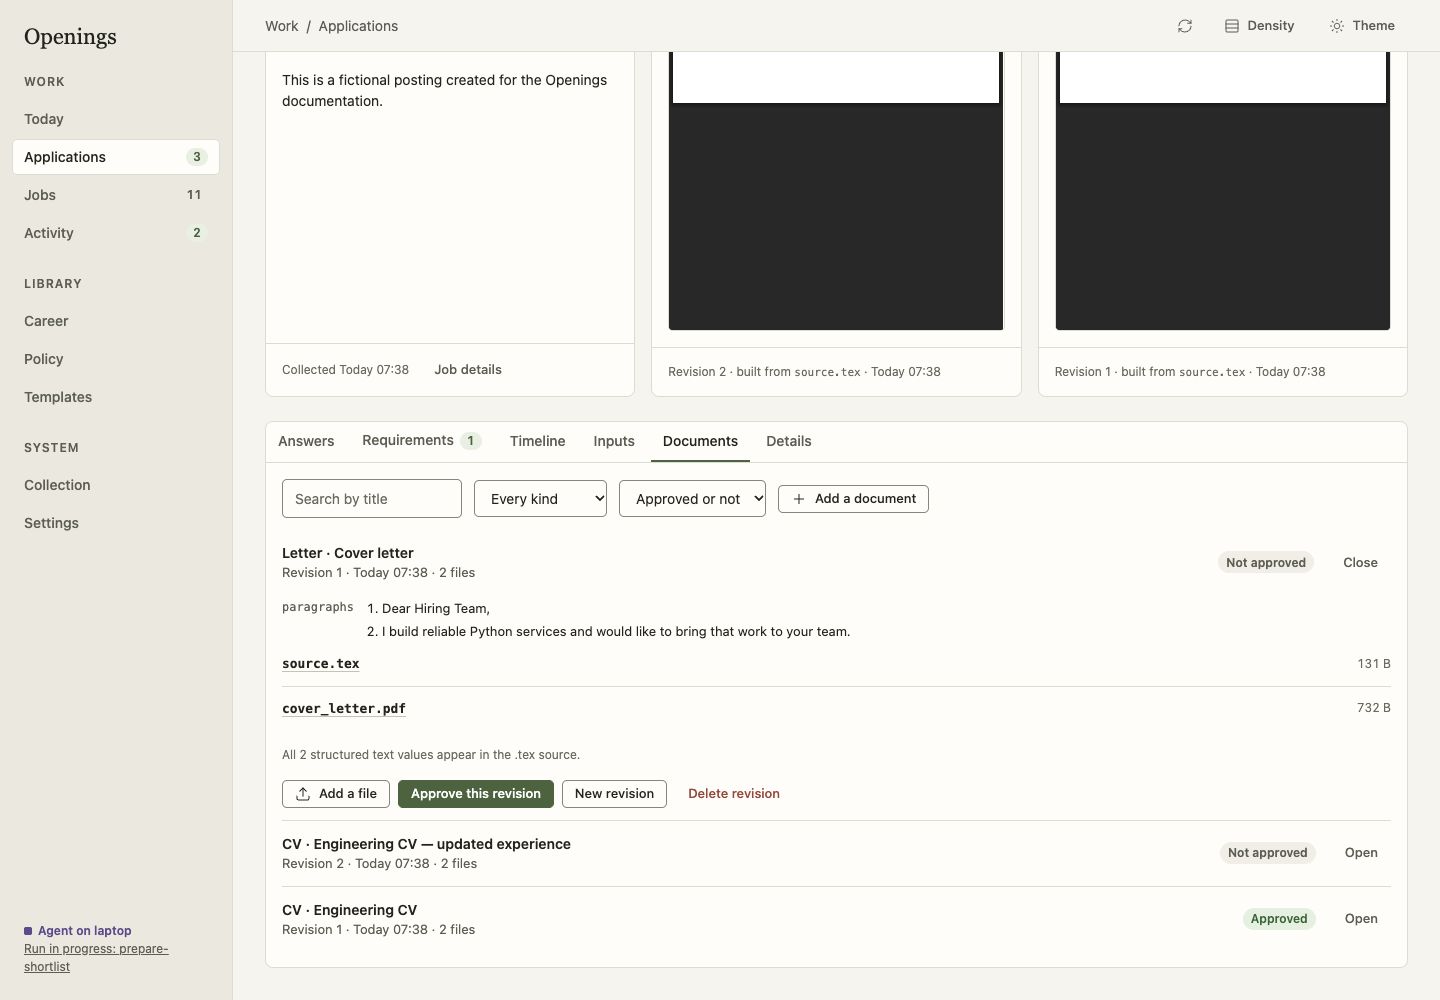
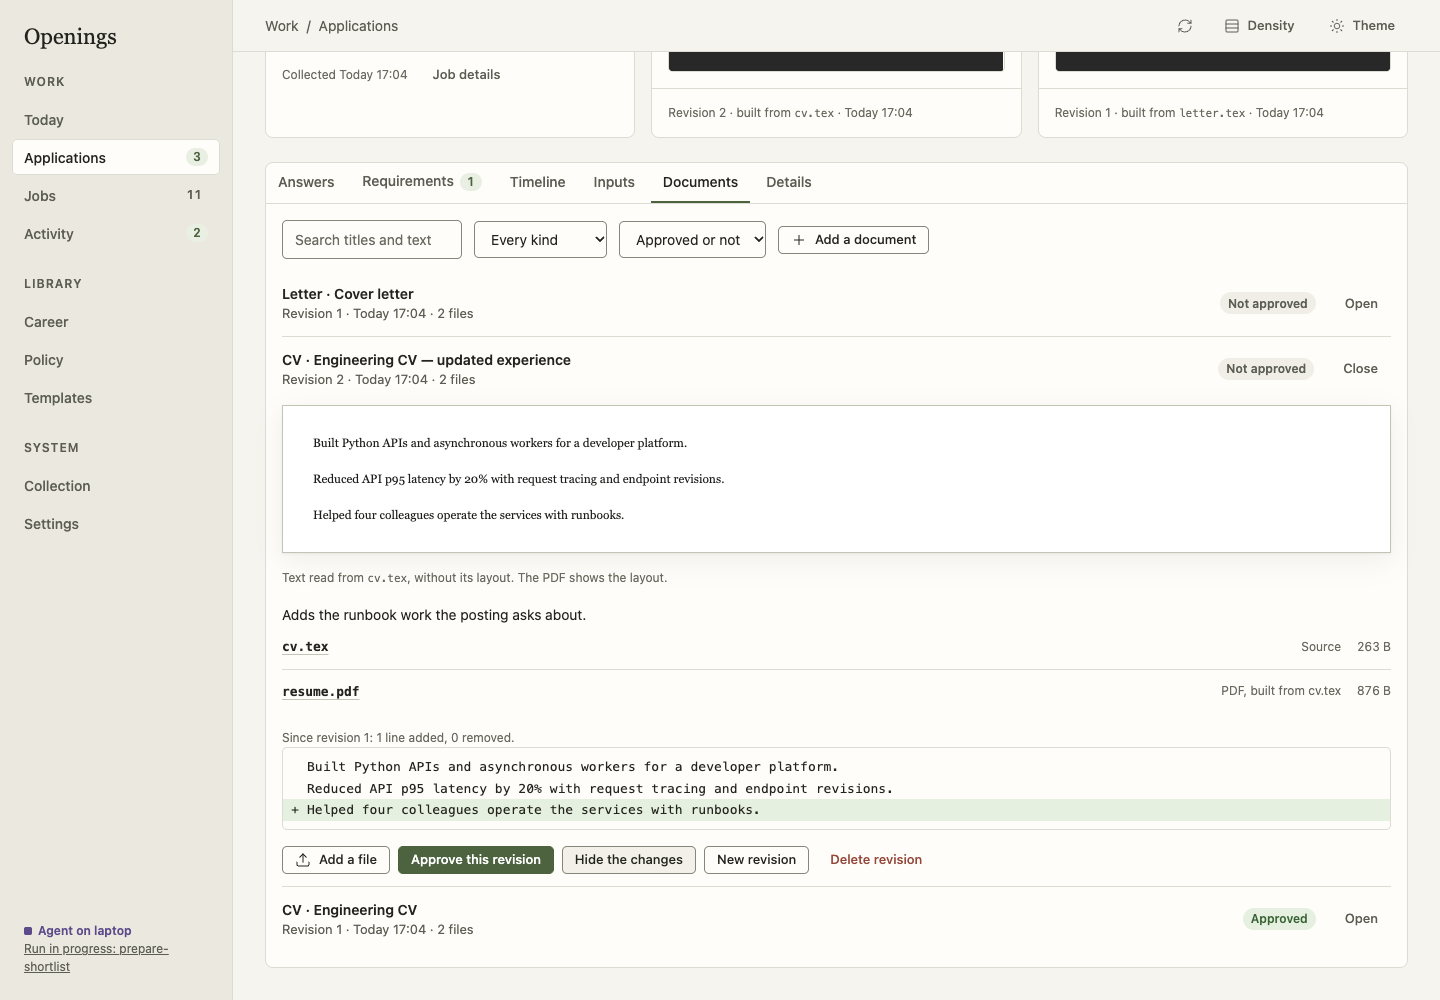
Compare non-empty lines and regenerate parity and screenshots
Blank lines only separate paragraphs of the derived text, so the comparison
skips them. The parity matrix records the dashboard's comparison calls, and
the review and documents screenshots show the PDF and text switch and the
changes since the previous revision.

diff --git a/backend/openings/documents/revisions.py b/backend/openings/documents/revisions.py
@@ -29,7 +29,8 @@ SUMMARY_COLUMNS = (
 def readable_lines(row) -> list[str]:
     """The lines a comparison reads: the derived text, else structured content as text."""
     if row.get("text") is not None:
-        return row["text"].splitlines()
+        # Blank lines only separate paragraphs; they are not compared.
+        return [line for line in row["text"].splitlines() if line.strip()]
     if row["kind"] in SOURCE_KINDS:
         return []
     lines = []

diff --git a/docs/developer/parity.md b/docs/developer/parity.md
@@ -32,7 +32,7 @@ How to read the evidence:
 | Owner only (refused for an agent token) | 9 |
 | Without a working dashboard path | 7 |
 | Reached only through another operation | 7 |
-| With inputs the dashboard never mentions | 22 |
+| With inputs the dashboard never mentions | 23 |
 | With free-form JSON edited as raw JSON | 0 |
 | With different REST and MCP input names | 1 |
 | With a dashboard path exercised by e2e | 111 |
@@ -91,6 +91,7 @@ operation. They can be set over REST or MCP only.
 | `insights.read` | `applied_until` | Insights uses the default minimum sample of 5 and `applied_since` for the last 90 days; `min_sample` and `applied_until` serve agents and scripts. |
 | `contexts.list` | `q` | Inputs lists the application's frozen copies 20 at a time; `q` serves agents and scripts. |
 | `contexts.create` | `template_id` | The context dialog sends `template_ids`; `template_id` is the single-template form of the same input. |
+| `documents.create` | `claim_ids`, `knowledge_ids` | Add a document and New revision send the title, frozen copy, note, the CV or letter's source and PDF, or form content; the agent cites `claim_ids` and `knowledge_ids`, which an open revision shows as counts. |
 | `files.list` | `q` | A job's Files lists all of its files; `q` serves agents and scripts. |
 | `events.list` | `application_id`, `job_id`, `subject_id`, `subject_type` | The Activity timeline filters changes by who made them (owner, API tokens or one token, system, not recorded), by kind of record (`subject_types`), by period and by run; the job, application and subject filters serve agents and scripts; the job and application timelines read `timeline.read`. |
 | `runs.list` | `started_since`, `started_until`, `token_id` | Activity filters runs by status; Today lists the runs active since the last visit (`active_since`). The workflow, token and start-time filters serve agents and scripts. |
@@ -264,10 +265,10 @@ missing from the inventory.
 | `applications.staleness`<br>Report whether an attempt's current revisions use outdated inputs | `GET /applications/{application_id}/staleness` | `application_staleness` | any | Applications: Inputs changed indicator and the review page Inputs tab | pages/review/Inputs.tsx | structured | 3 |
 | `applications.staleness_list`<br>List attempts whose current revisions use outdated inputs | `GET /staleness` | `applications_staleness` | any | Applications: Inputs changed tag and first change on rows | via `applications.list`, `applications.staleness` | — | — |
 | `documents.list`<br>List/filter paginated revision summaries | `GET /documents` | `documents_list` | any | Applications: documents/history | pages/review/DocumentPanes.tsx<br>pages/review/Revisions.tsx | structured | 13 |
-| `documents.read`<br>Read exact revision content, chain number and files | `GET /documents/{document_id}` | `documents_get` | any | Applications: revision detail and preview | pages/review/DocumentPanes.tsx<br>pages/review/Revisions.tsx | structured | 7 |
-| `documents.create`<br>Save content as a new immutable revision | `POST /documents` | `documents_create` | any | Applications: add/edit content as a new revision | pages/review/RevisionDialog.tsx | structured | 1 |
-| `documents.review`<br>Approve the exact revision content/files | `POST /documents/{document_id}/review` | `documents_review` | any | Applications: Approve revision | pages/review/Revisions.tsx | structured | 1 |
-| `documents.consistency`<br>Compare structured content text with the attached .tex source | `GET /documents/{document_id}/consistency` | `documents_consistency` | any | Applications: approval reports content/source differences | pages/review/Revisions.tsx | structured | 2 |
+| `documents.read`<br>Read a revision: derived text or form content, evidence, chain number and files | `GET /documents/{document_id}` | `documents_get` | any | Applications: revision detail and preview | pages/review/DocumentPanes.tsx<br>pages/review/Revisions.tsx | structured | 7 |
+| `documents.create`<br>Create a new immutable revision (CV/letter: then upload source and PDF) | `POST /documents` | `documents_create` | any | Applications: Add a document / New revision (source and PDF upload) | pages/review/RevisionDialog.tsx | structured | 1 |
+| `documents.review`<br>Approve the exact revision and its files | `POST /documents/{document_id}/review` | `documents_review` | any | Applications: Approve revision | pages/review/Revisions.tsx | structured | 1 |
+| `documents.compare`<br>Compare the text of two revisions line by line | `GET /documents/{document_id}/comparison` | `documents_compare` | any | Applications: review page Documents tab, Compare with the previous revision | api.ts<br>pages/review/Revisions.tsx | structured | 2 |
 | `documents.delete`<br>Delete an entire revision and its files | `DELETE /documents/{document_id}` | `documents_delete` | any | Applications: delete revision | pages/review/Revisions.tsx | structured | 1 |
 | `files.list`<br>List/filter paginated file metadata | `GET /files` | `files_list` | any | Career/Templates/Applications/Inbox: assets and files | api.ts<br>library/Assets.tsx<br>pages/review/Inputs.tsx | structured | 28 |
 | `files.read`<br>Read immutable file metadata and content URL | `GET /files/{file_id}` | `files_get` | any | Career/Templates/Applications/Inbox: file details | library/Assets.tsx | structured | 3 |
